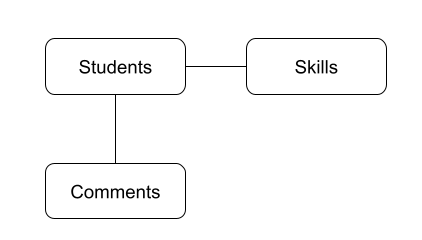
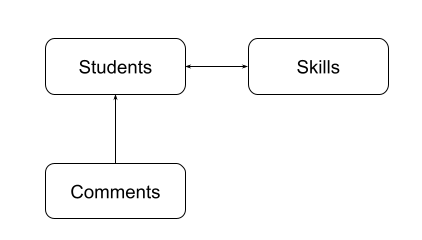
Minor adjustments on the readme file. API diagram image updated

diff --git a/README.md b/README.md
@@ -212,7 +212,7 @@ Se asume que la persona tiene conocimientos previos en:
     ```
     Primero preparamos la request que enviaremos como un JSON, para esto usamos la clase JSONObject y después imprimimos como se vería ese JSON que creamos.
     Luego especificamos la url base (baseURI) a la cual le enviaremos el request.
-    Finalmente en formato gherkin preparamos, enviamos y validamos el request. Aquí ponemos los header necesarios y el body a enviar, luego la acción que sería la url base y adicionamos el resto del endpoint para el método post, con el then verificamos el status code de la petición e imprimimos lo que nos retornó el endpoint.
+    Finalmente en formato gherkin preparamos, enviamos y validamos el request. Aquí ponemos los encabezados necesarios y el cuerpo a enviar, luego la acción que sería la url base y adicionamos el resto del endpoint para el método POST, con el "then" verificamos el código de estado de la petición e imprimimos lo que nos retornó el endpoint.
     La parte importante aquí es la acción (when) para especificar el método HTTP.
 
     __Nota:__ Si quisieramos imprimir (por debuguear rápidamente por ejemplo) como esta el request formado, podemos usar `System.out.println(request.toJSONString());`
@@ -281,7 +281,7 @@ Se asume que la persona tiene conocimientos previos en:
     ```
     Primero preparamos la request que enviaremos como un JSON, para esto usamos la clase JSONObject y después imprimimos como se veria ese json que creamos.
     Luego especificamos la url base (baseURI) a la cual le enviaremos el request.
-    Finalmente en formato gherkin preparamos, enviamos y validamos el request. Aquí ponemos los header necesarios y el body a enviar, luego la acción que se sería la url base y adicionamos el resto del endpoint para el método (put o patch), con el then verificamos el status code de la petición e imprimimos lo que nos retorno el endpoint.
+    Finalmente en formato gherkin preparamos, enviamos y validamos el request. Aquí ponemos los encabezados necesarios y el body a enviar, luego la acción que se sería la url base y adicionamos el resto del endpoint para el método (put o patch), con el then verificamos el status code de la petición e imprimimos lo que nos retorno el endpoint.
     La parte importante aquí es la acción (when) para especificar el método HTTP.
 1. Vamos a crear la petición para el DELETE
 
@@ -550,6 +550,7 @@ curl -X 'GET' \
   -H 'X-Parse-REST-API-Key: <api_key>'
 ```
 Nota que en el encabezado únicamente se deben especificar los datos del _application id_ y el _REST API key_ pero no es necesario indicar ningún tipo de tóken asociado a un usuario en particular.
+
 _Respuesta de ejemplo_
 ```json
 {
@@ -570,32 +571,39 @@ _Respuesta de ejemplo_
 
 #### Acceso a los endpoints que requieren autenticación.
 
+Con el fin de aislar los datos de prueba entre las personas que hacen el ramp-up, la API permite
+la creación de una cuenta de usuario para así filtrar la información y mostrarle a cada usuario únicamente
+aquellos registros creados por el mismo.
+
 Para poder acceder a los endpoints que requieren autenticación,
 es necesario obtener un **tóken de sesión** y enviarlo en el encabezado en cada
 petición junto con los ya mencionados **application id** y **REST API token**, a continuación se listan los pasos necesario para obtener dicho tóken.
 
 1. #### Crear una cuenta ( endpoint `/signup` )
-    **Notas:**  
+
+**Notas:**  
    * Los datos ingresados acá no tienen que corresponder a un correo
    real, pero los debes recordar porque serán requeridos para obtener el tóken de autenticación
    * Dado que la creación de la cuenta se debe hacer una única vez y no debe estar incluída en el código fuente del ejercicio a entregar, se recomienda usar una herramienta como postman para este paso.
-    ```shell
-    # No olvides especificar los datos de la nueva cuenta
-    curl -X POST \
-        -H "X-Parse-Application-Id: <APPLICATION_ID>" \
-        -H "X-Parse-REST-API-Key: <API_KEY>" \
-        -H "Content-Type: application/json" \
-        -d "{ \"password\":\"<CONTRASEÑA>\", \"username\": \"<NOMBRE_USUARIO>\",\"email\": \"<CORREO_ELECTRONICO>\" }" \
-        https://parseapi.back4app.com/users
-    ```
-    _Respuesta ejemplo:_
-    ```json
-    {
-        "objectId": "<user_id>",
-        "createdAt": "2022-12-12T20:06:15.953Z",
-        "sessionToken": "<session_token>"
-    }
-    ```
+    
+   ```shell
+   # No olvides especificar los datos de la nueva cuenta
+   curl -X POST \
+      -H "X-Parse-Application-Id: <APPLICATION_ID>" \
+      -H "X-Parse-REST-API-Key: <API_KEY>" \
+      -H "Content-Type: application/json" \
+      -d "{ \"password\":\"<CONTRASEÑA>\", \"username\": \"<NOMBRE_USUARIO>\",\"email\": \"<CORREO_ELECTRONICO>\" }" \
+      https://parseapi.back4app.com/users
+   ```
+   _Respuesta ejemplo:_
+
+   ```json
+  {
+      "objectId": "<user_id>",
+      "createdAt": "2022-12-12T20:06:15.953Z",
+      "sessionToken": "<session_token>"
+   }
+   ```
 
 2. #### Autenticarse en la API (Endpoint `/login` )
     **Nota:** 
@@ -635,14 +643,14 @@ petición junto con los ya mencionados **application id** y **REST API token**, 
    }
    ```
    
-    El valor retornado en el campo `sessionToken` se debe enviar en el header de las peticiones que requieran autenticación de la siguiente forma:
+   El valor retornado en el campo `sessionToken` se debe enviar en el encabezado de las peticiones que requieran autenticación de la siguiente forma:
     
-    `X-Parse-Session-Token: <SESSION_TOKEN>`
+   `X-Parse-Session-Token: <SESSION_TOKEN>`
  
-    A continuación un ejemplo de como invocar el endpoint de estudiantes (Students) que requiere el tóken.
+   A continuación un ejemplo de como invocar el endpoint de estudiantes (Students) que requiere el **tóken de sesión**.
     
    ```shell
-    curl --location --request GET 'https://parseapi.back4app.com/classes/Students' \
+   curl --location --request GET 'https://parseapi.back4app.com/classes/Students' \
       --header 'X-Parse-Application-Id: <APPLICATION_ID>' \
       --header 'X-Parse-REST-API-Key: <API_KEY>' \
       --header 'X-Parse-Session-Token: <SESSION_TOKEN>'
@@ -651,7 +659,7 @@ petición junto con los ya mencionados **application id** y **REST API token**, 
 ### Ejercicio a desarrollar
 
 A continuación se listan varios escenario de prueba para la API mencionada usando sintaxis *gherkin*, 
-para cada uno de los "features" debes crear una clase Test e implementar 
+para cada uno de los "features" debes crear una clase _Test_ e implementar 
 un método por cada uno de los escenarios que haga las validaciones enunciadas haciendo uso de RestAssured
 y los conceptos vistos durante el workshop
 
@@ -683,9 +691,8 @@ Feature: Gestionar las habilidades disponibles en el sistema
         And NO se especifican los encabezados "X-Parse-REST-API-Key" y "X-Parse-Application-Id" 
         When se hace una petición GET al endpoint /classes/Skills 
         Then el servicio responde un código HTTP 401 
-        And el cuerpo de la respuesta se debe mostrar un mensaje diciendo que el usuario no está autorizado para realizar esta acción 
+        And el cuerpo de la respuesta debe mostrar un mensaje diciendo que el usuario no está autorizado para realizar esta acción 
 ```
-
 
 #### Escenarios para el endpoint de gestión de estudiantes (requiere autenticación)
 
@@ -706,7 +713,7 @@ Feature: Gestionar los estudiantes de la aplicación
         Then el servicio responde un código HTTP 400 
         And el cuerpo de la respuesta debe mostrar un mensaje diciendo que hay duplicidad de información
         
-    Scenario: verificar que no se puedan crear estudiantes sin nombre 
+    Scenario: verificar que no se pueden ingresar caracteres especiales en el nombre 
         Given el servicio de gestión de estudiantes "Students" con autenticación válida 
         When se hace una petición POST al endpoint /classes/Students enviando caracteres especiales en el campo "name" 
         Then el servicio responde un código HTTP 400 
@@ -762,7 +769,7 @@ Feature: Gestionar los habilidades de los estudiantes
 ```gherkin
 Feature: Gestionar los comentarios a los estudiantes 
  
-    Scenario: Verificar que se puedan agregar comentarios a los estudiantes habilidades 
+    Scenario: Verificar que se puedan agregar comentarios a los estudiantes 
         Given el servicio de gestión de comentarios "Comments" con autenticación válida 
         When hace una petición POST al endpoint /classes/Comments con información de un estudiante existente 
         Then el servicio responde con código HTTP 201
@@ -787,9 +794,11 @@ Feature: Gestionar los comentarios a los estudiantes
 
 ### 7. Configurar Integración Continua (CI)
 
+Antes de empezar con esta actividad asegurate de que los scripts estén corriendo correctamente en tu máquina local.
+
 Para iniciar esta actividad, crea una nueva rama de tu proyecto.
 
-Para crear la configuración del workflow de GitHub actions, vamos a crear un archivo `maven.yml` en el directorio `.github/workflows` que realice los siguientes steps cuando creamos o actualizamos un Pull Request:
+Para crear la configuración del workflow de GitHub actions, vamos a crear un archivo `maven.yml` en el directorio `.github/workflows` que realice los siguientes pasos cuando creamos o actualizamos un Pull Request:
 * Configuración de java
 * Construye el proyecto con Maven
 
